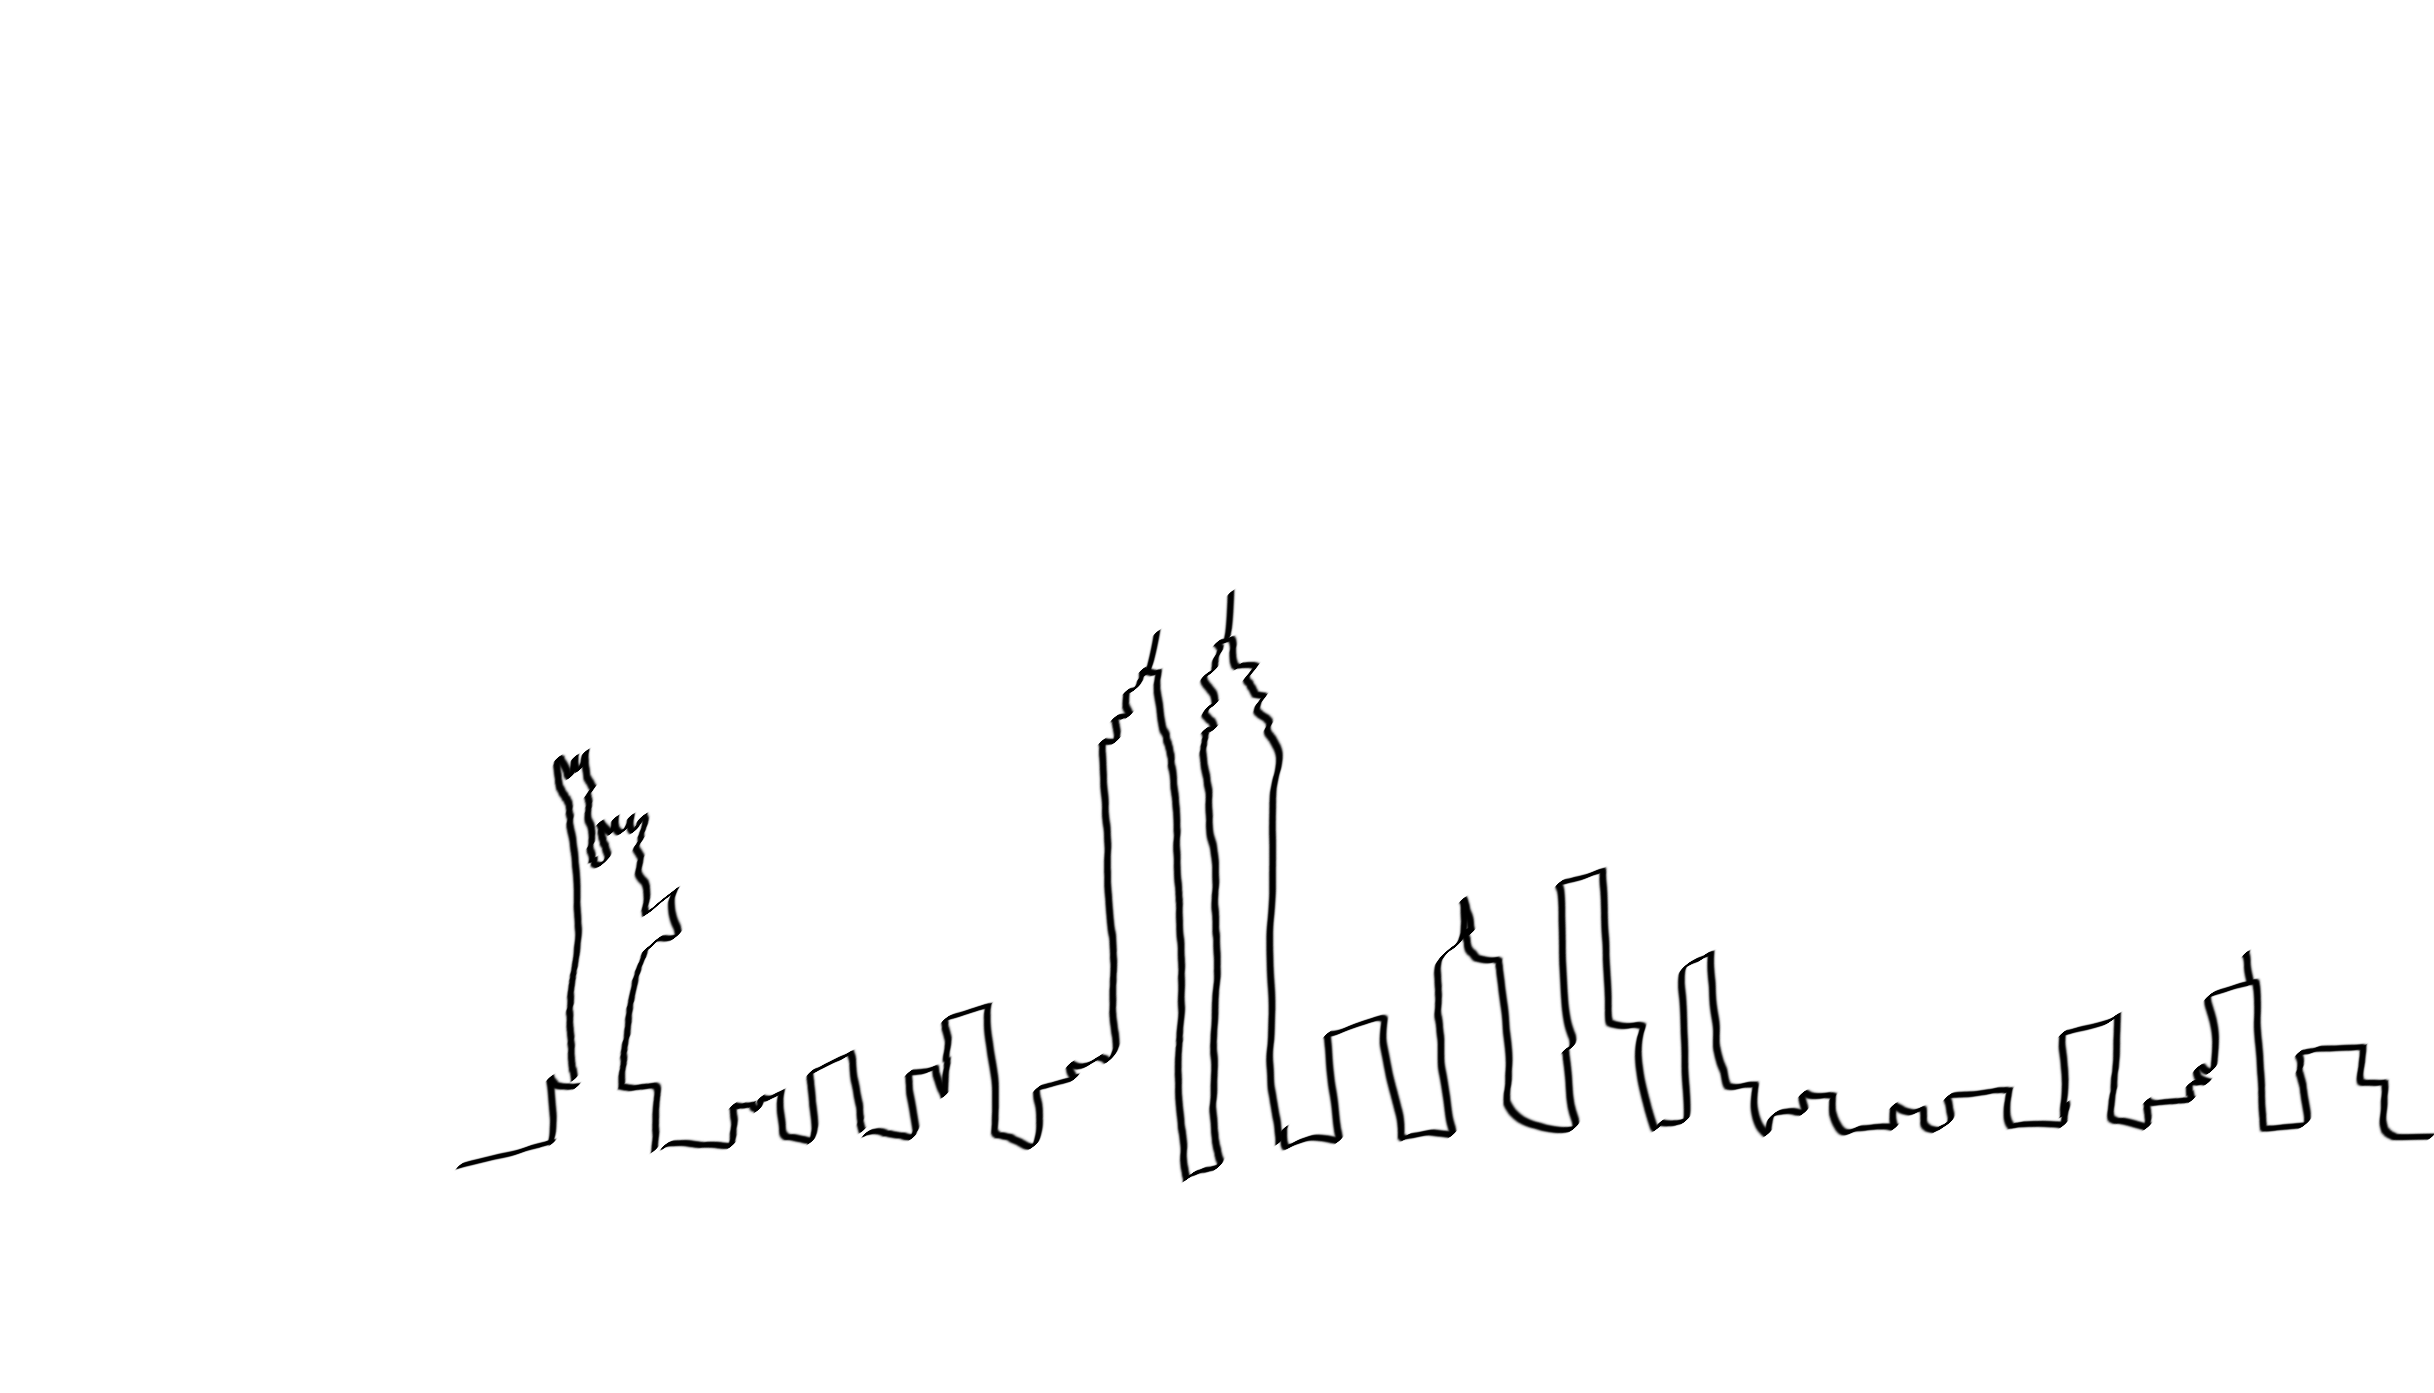
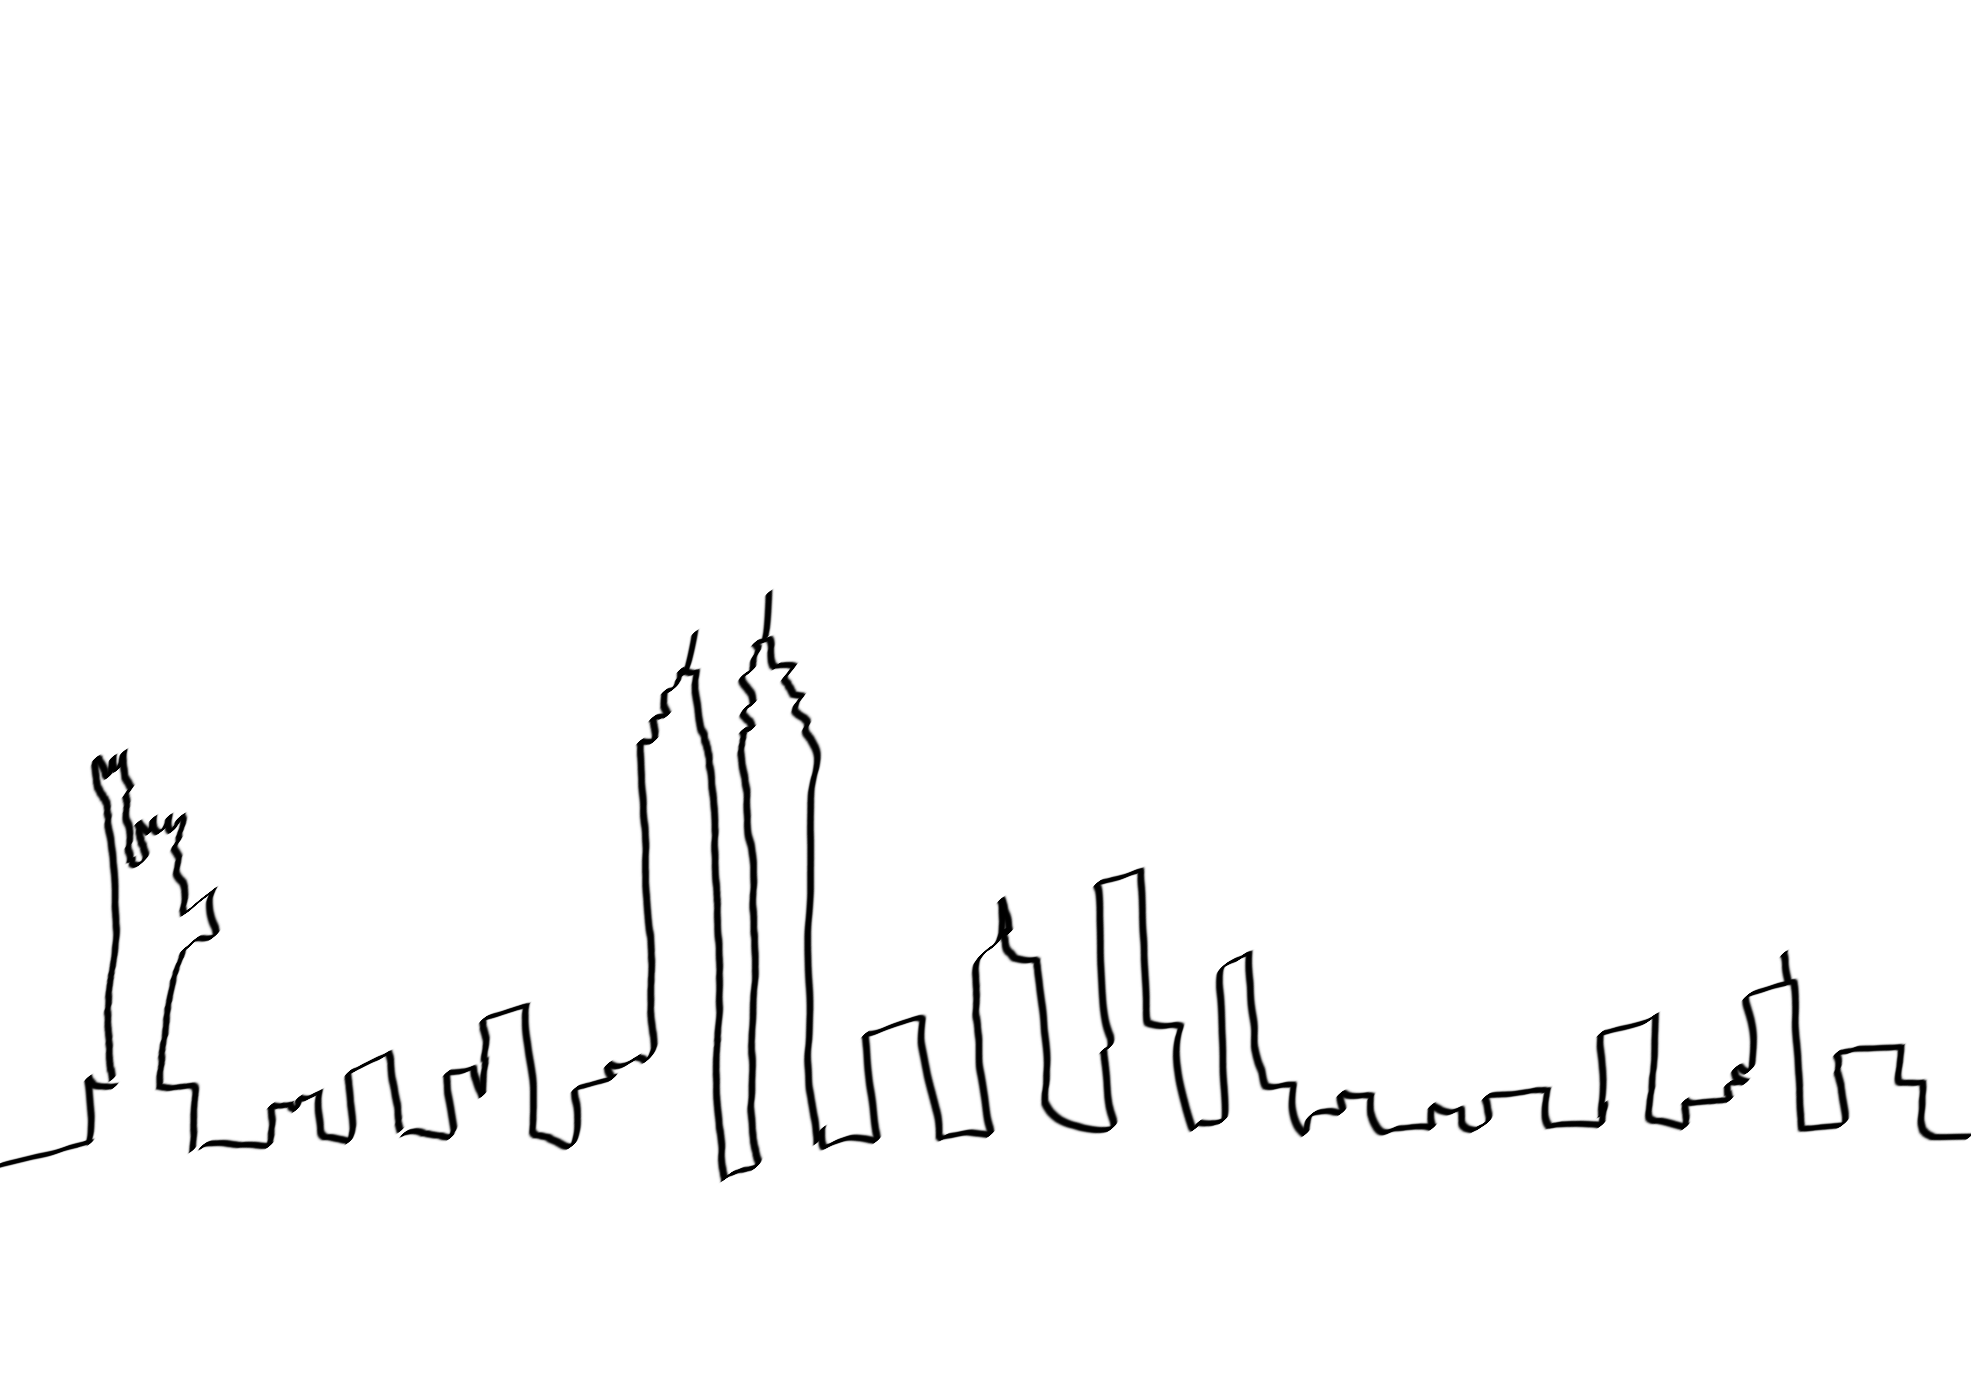
testing image

Changed region(s): [[0.0, 0.4365, 1.0, 0.8419]]

diff --git a/index.html b/index.html
@@ -16,8 +16,8 @@
 <body>
 
   <!-- splash screen -->
-  <div class="container page splash_screen bg">
-    <div class="row align-items-center">
+  <div class="container page splash_screen">
+    <div class="row align-items-center bg">
       <div class="col">
         <div data-scroll="toggle(.fromBottomIn, .fromBottomOut)">
           <h1> automating NYC </h1>
@@ -25,6 +25,7 @@
         <div data-scroll="toggle(.fromBottomIn, .fromBottomOut)">
           <h2> and (en)coding inequality?</h2>
         </div>
+    
         <div data-scroll="toggle(.fromBottomIn, .fromBottomOut)">
           <a href="#first_page">
             <h1 data-anijs="if: mouseover, do: bounce animated"> <i class="fas fa-chevron-down"></i> </h1>

diff --git a/css/style.css b/css/style.css
@@ -41,16 +41,12 @@ h2 {
 
 /* splash screen */
 .bg {
-  /* The image used */
-  background-image: url("img/skyline1.jpg");
-
-  /* Full height */
-  height: 100%;
-
-  /* Center and scale the image nicely */
+  background: url("../img/skyline1.png");
+  width: 100%;
   background-position: center;
   background-repeat: no-repeat;
   background-size: cover;
+
 }
 
 /* intro pages */
